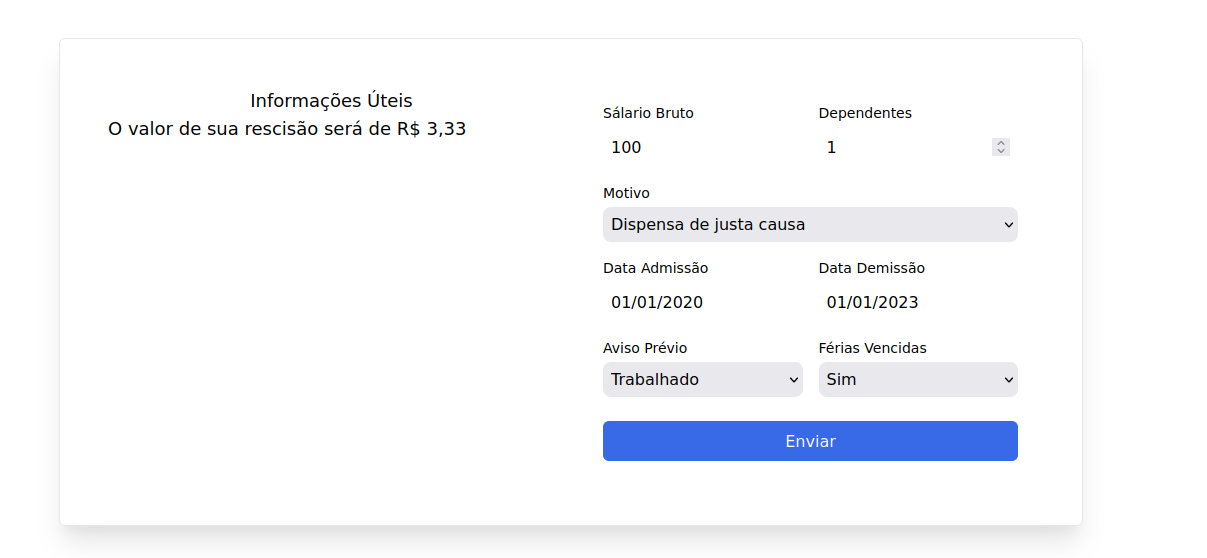
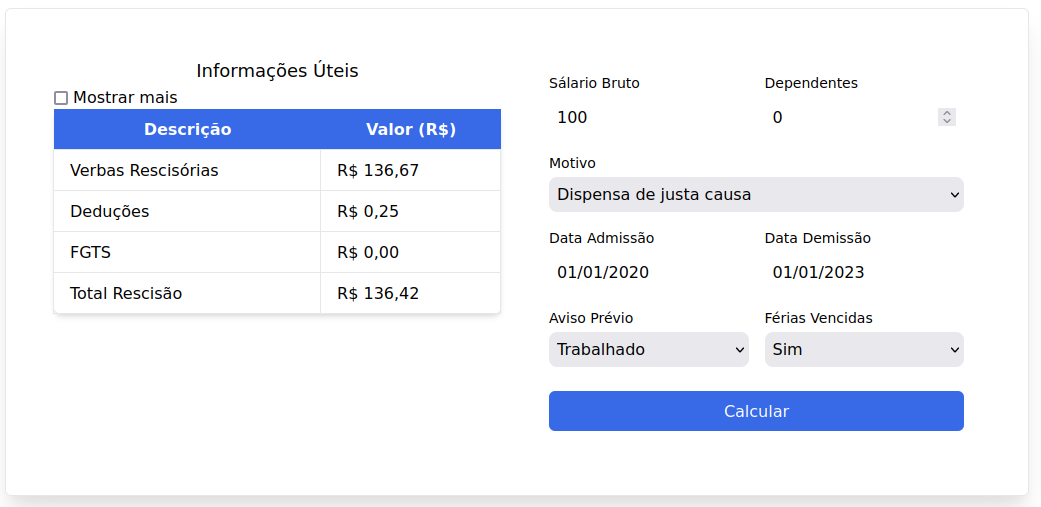
wip documentos-06

diff --git a/documentos/06-Programação de Funcionalidades.md b/documentos/06-Programação de Funcionalidades.md
@@ -2,7 +2,7 @@
 
 Implementação da aplicação descritas por meio dos requisitos codificados. 
 
-### Cálculo de dispensa de justa causa
+### Cálculos
 
 #### Responsáveis
 
@@ -10,13 +10,13 @@ Fábio Vinícius Barkoski, Gustavo Marques Pereira, Lucas Antonio Riboli, Victor
 
 |Imagem|Descrição|
 |------|---------|
-| ![Captura de tela](img/justa-causa.png) | Captura de tela do cálculo de dispensa de justa causa |
-
+| ![Captura de tela](img/justa-causa.png) | Cálculo de dispensa de justa causa |
+| ![Captura de tela](img/sem-justa-causa.png) | Cálculo de dispensa sem justa causa |
 
 #### Requisito atendido
 
 RF-01: A aplicação deverá realizar o cálculo de dispensas de justa causa.
-
+RF-02: A aplicação deverá realizar o cálculo de dispensas sem justa causa.
 
 #### Artefatos da funcionalidade
 
@@ -25,15 +25,36 @@ RF-01: A aplicação deverá realizar o cálculo de dispensas de justa causa.
 - calculus.js
 - masks.js
 
-<!--#### Estrutura de Dados
+#### Instruções de acesso
 
-[Caso exista estrutura de dados, adicione aqui]-->
+- RF-01:
+    Selecione o motivo "Dispensa de justa causa" e preencha o resto dos campos conforme desejar, em seguida clique em "Calcular" e
+    o resultado aparecerá ao lado, bem como será salvo no histórico de cálculos.
+- RF-02:
+    Selecione o motivo "Dispensa sem justa causa" e preencha o resto dos campos conforme desejar, em seguida clique em "Calcular" e
+    o resultado aparecerá ao lado, bem como será salvo no histórico de cálculos.
 
+
+### Explicações
+
+#### Responsáveis
+
+Lucas Antonio Riboli
+
+|Imagem|Descrição|
+|------|---------|
+| ![Captura de tela](img/explicacoes.png) | Explicações de cada campo |
+
+#### Requisito atendido
+
+RF-13: A aplicação deve permitir que o usuário veja a explicação e os detalhes dos cálculos.
+
+#### Artefatos da funcionalidade
+
+- index.html
+- style.css
+- motion.js
 
 #### Instruções de acesso
 
-Abra um navegador de Internet e clique [aqui](https://icei-puc-minas-pmv-ads.github.io/pmv-ads-2023-2-e1-proj-web-t6-calculadorarescisao/)
-para abrir a página do cálculo.
-
-Ao abrir selecione o motivo "Dispensa de justa causa" e preencha o resto dos campos conforme desejar, em seguida clique em "Enviar" e
-o resultado aparecerá ao lado, bem como será salvo no histórico de cálculos.
+Selecione um campo e então aparecerá a explicação.
